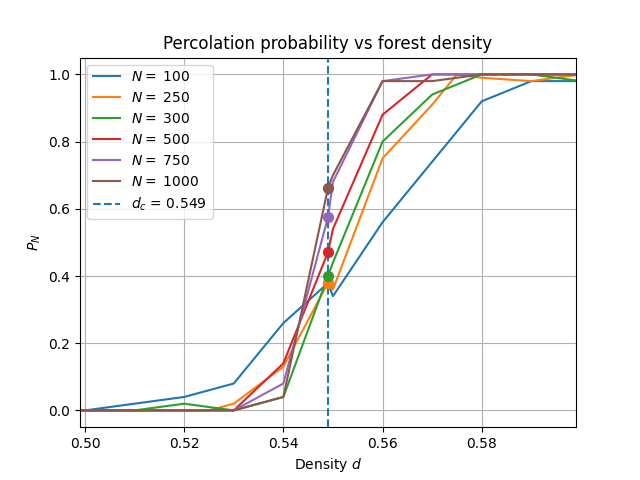
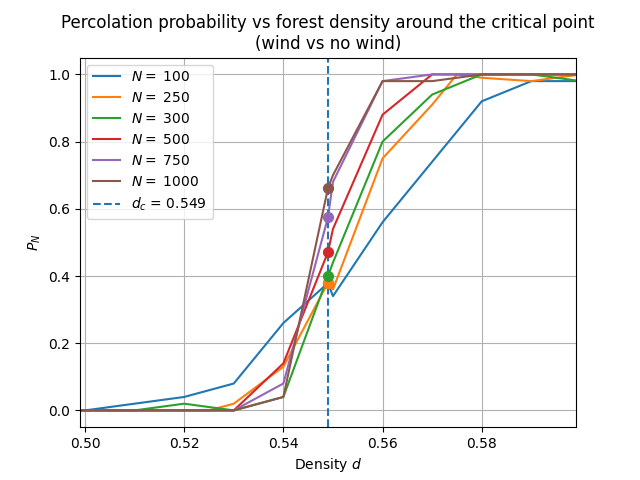
Percolation plot titles

Changed region(s): [[0.0938, 0.0312, 0.9375, 0.125]]

diff --git a/ForestFirePercolation/src/plots/plot_generator.py b/ForestFirePercolation/src/plots/plot_generator.py
@@ -95,7 +95,7 @@ class PlotGenerator:
         :param title: Title of the figure.
         :param system_size: String representation of the system size to plot for.
         """
-        self.multi_setting_plot.plot_multiple_settings(results_dict, title, file_name + system_size,
+        self.multi_setting_plot.plot_multiple_settings(results_dict, title, file_name + '_' + system_size,
                                                        single_size=system_size)
 
     def generate_single_size_multiple_settings_critical_plot(self, results_dict, title, system_size, file_name):
@@ -135,8 +135,8 @@ class PlotGenerator:
 
     def generate_base_experiment_plots(self):
         filtered_results = self.result_filter.no_wind_filter(self.results_per_system_size)
-        title = "Percolation probability vs forest density"
-        title2 = "Percolation probability vs forest density around the critical point"
+        title = "Percolation probability vs forest density\n(base)"
+        title2 = "Percolation probability vs forest density around the critical point\n(base)"
         self.generate_single_percolation_plot(filtered_results, '300', title, 'single_percolation_base',
                                               self.critical_points['base'])
         self.generate_single_critical_point_plot(filtered_results, '300', title2, 'single_percolation_critical_base',
@@ -149,32 +149,34 @@ class PlotGenerator:
     def generate_wind_experiment_plots(self):
         wind_dict = self.result_filter.init_wind_vs_no_wind_dict(self.results_per_system_size, self.critical_points)
         wind_results = self.result_filter.wind_filter(self.results_per_system_size)
-        title = "Percolation probability vs forest density"
+        title = "Percolation probability vs forest density\n(wind vs no wind)"
+        title2 = "Percolation probability vs forest density around the critical point\n(wind vs no wind)"
         self.generate_single_size_multiple_settings_plot(wind_dict, title, '300', 'single_percolation_wind')
-        self.generate_single_size_multiple_settings_critical_plot(wind_dict, title, '300',
+        self.generate_single_size_multiple_settings_critical_plot(wind_dict, title2, '300',
                                                                   'single_percolation_critical_wind')
         self.generate_percolation_multi_plot(wind_results, title, 'multi_percolation_wind', self.critical_points['wind'])
-        self.generate_critical_point_multi_plot(wind_results, title, 'multi_percolation_critical_wind',
+        self.generate_critical_point_multi_plot(wind_results, title2, 'multi_percolation_critical_wind',
                                                 self.critical_points['wind'])
 
     def generate_env_index_experiment_plots(self):
         env_index_dict = self.result_filter.init_env_index_dict(self.results_per_system_size, self.critical_points)
         env_index_results = self.result_filter.env_075_filter(self.results_per_system_size)
-        title = "Percolation probability vs forest density"
-        title2 = "Percolation probability vs forest density (env_index 0.75)"
+        title = "Percolation probability vs forest density\n(environmental influences)"
+        title2 = "Percolation probability vs forest density\n(env_index 0.75)"
+        title3 = "Percolation probability vs forest density around the critical point\n(env_index 0.75)"
         self.generate_single_size_multiple_settings_plot(env_index_dict, title, '300', 'single_percolation_env_index')
         self.generate_percolation_multi_plot(env_index_results, title2, 'multi_percolation_env_index',
                                              self.critical_points['env_index'])
-        self.generate_critical_point_multi_plot(env_index_results, title2, 'multi_percolation_critical_env_index',
+        self.generate_critical_point_multi_plot(env_index_results, title3, 'multi_percolation_critical_env_index',
                                                 self.critical_points['env_index'])
 
     def generate_env_index_050_and_wind_experiment_plots(self):
         env_wind_dict = self.result_filter.init_env_wind_dict(self.results_per_system_size, self.critical_points)
         env_wind_results = self.result_filter.env_wind_filter(self.results_per_system_size)
-        title = "Percolation probability vs forest density"
-        title2 = "Percolation probability vs forest density (env_index 0.5 + wind)"
+        title = "Percolation probability vs forest density\n(env_index 0.5 + wind)"
+        title2 = "Percolation probability vs forest density around the critical point\n(env_index 0.5 + wind)"
         self.generate_single_size_multiple_settings_plot(env_wind_dict, title, '300', 'single_percolation_env_wind')
-        self.generate_percolation_multi_plot(env_wind_results, title2, 'multi_percolation_env_wind',
+        self.generate_percolation_multi_plot(env_wind_results, title, 'multi_percolation_env_wind',
                                              self.critical_points['env_wind'])
         self.generate_critical_point_multi_plot(env_wind_results, title2, 'multi_percolation_critical_env_wind',
                                                 self.critical_points['env_wind'])
@@ -182,10 +184,10 @@ class PlotGenerator:
     def generate_plant_experiment_plots(self):
         plant_dict = self.result_filter.init_plant_075_dict(self.results_per_system_size, self.critical_points)
         plant_results = self.result_filter.plant_filter(self.results_per_system_size)
-        title = "Percolation probability vs forest density"
-        title2 = "Percolation probability vs forest density (env_index 0.75 + 50% plant)"
+        title = "Percolation probability vs forest density\n(env_index 0.75 + 50% plant)"
+        title2 = "Percolation probability vs forest density around the critical point\n(env_index 0.75 + 50% plant)"
         self.generate_single_size_multiple_settings_plot(plant_dict, title, '300', 'single_percolation_plant')
-        self.generate_percolation_multi_plot(plant_results, title2, 'multi_percolation_plant', self.critical_points['plant'])
+        self.generate_percolation_multi_plot(plant_results, title, 'multi_percolation_plant', self.critical_points['plant'])
         self.generate_critical_point_multi_plot(plant_results, title2, 'multi_percolation_plant_critical',
                                                 self.critical_points['plant'])
 
